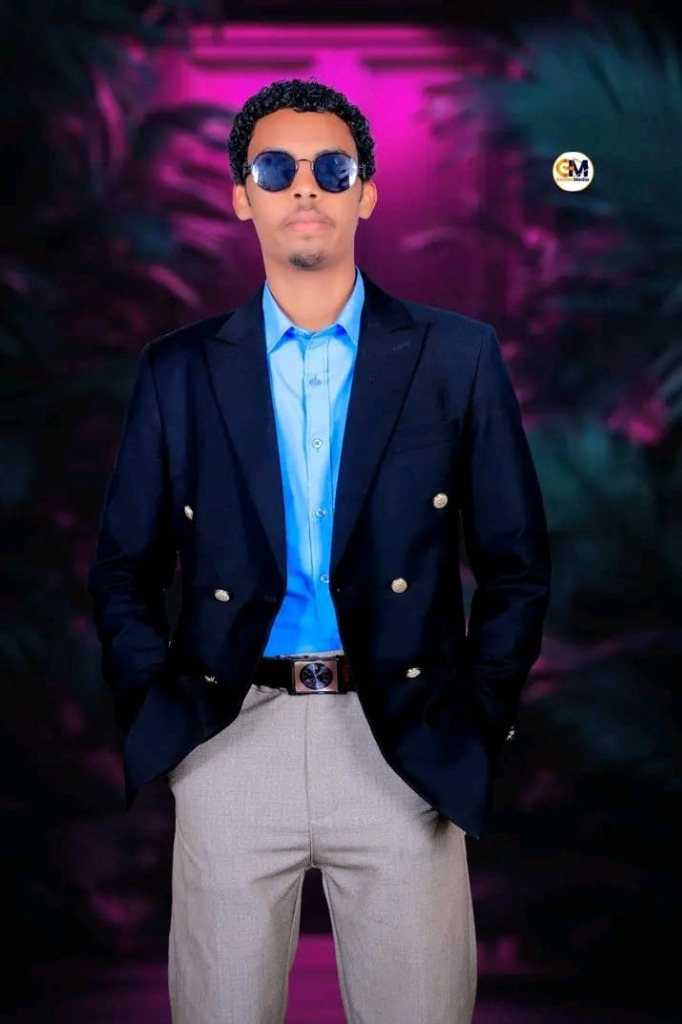
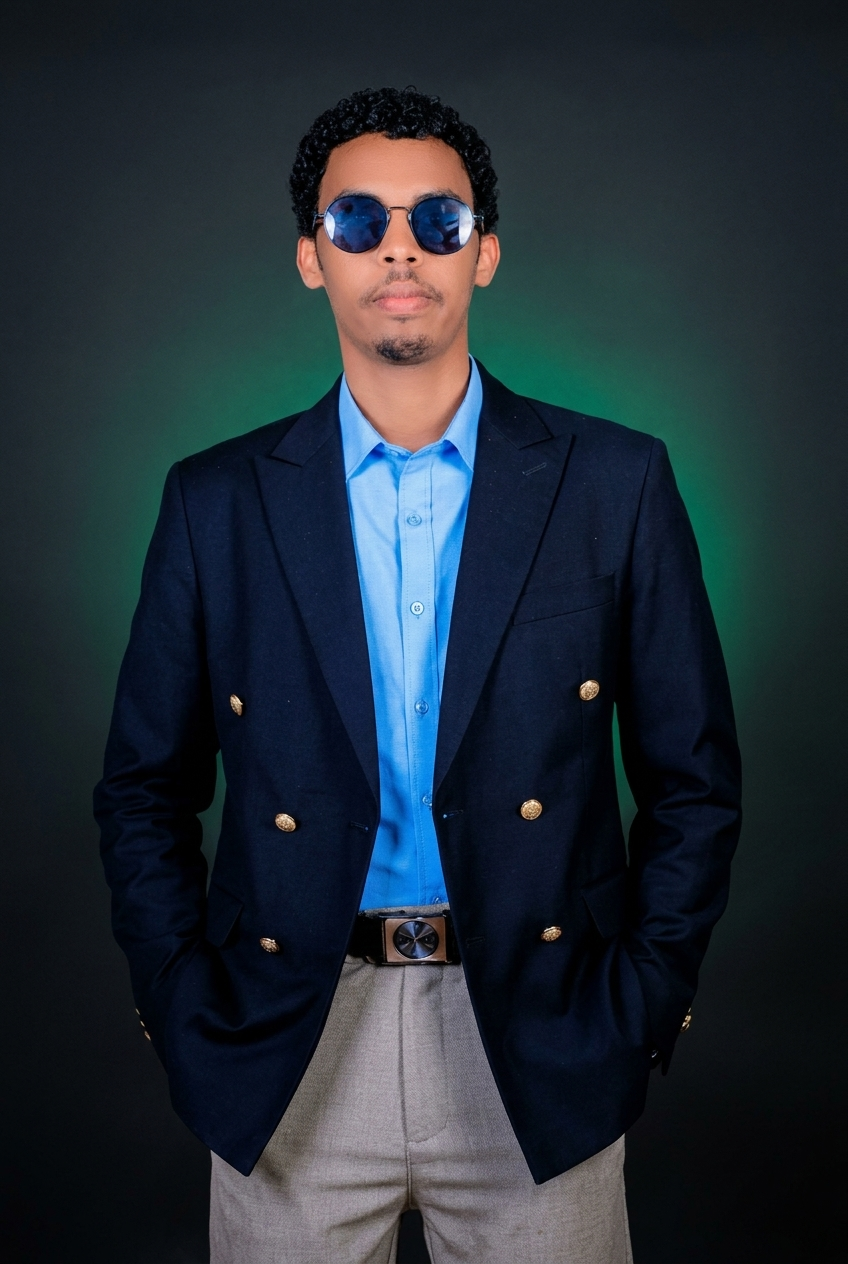
feat: remove subtle grid lines and apply studio dark backdrop to portrait

diff --git a/frontend/src/components/sections/Hero.jsx b/frontend/src/components/sections/Hero.jsx
@@ -42,8 +42,7 @@ export default function Hero() {
       aria-label="Hero"
       className="relative flex min-h-screen flex-col justify-between overflow-hidden bg-[#0e0e0e] pt-24 lg:pt-28"
     >
-      {/* Background ambient lighting */}
-      <div className="pointer-events-none absolute inset-0 grid-bg-dark opacity-50" />
+      {/* Background ambient lighting - pure dark with subtle glow */}
       <div className="pointer-events-none absolute -left-64 top-0 h-[500px] w-[500px] rounded-full bg-[#39A751]/8 blur-[120px]" />
       <div className="pointer-events-none absolute -right-48 top-20 h-[400px] w-[400px] rounded-full bg-[#52fe7d]/4 blur-[100px]" />
 
@@ -117,7 +116,7 @@ export default function Hero() {
           </div>
 
           {/* ── Right Column: Clean Portrait ── */}
-          <Reveal delay={120} className="order-1 mx-auto w-full max-w-[290px] sm:max-w-[330px] lg:order-2 lg:mx-0 lg:ml-auto">
+          <Reveal delay={120} className="order-1 mx-auto w-full max-w-[310px] sm:max-w-[350px] lg:order-2 lg:mx-0 lg:ml-auto">
             <div className="relative">
               {/* Outer glow ring */}
               <div className="absolute -inset-3 rounded-2xl bg-gradient-to-br from-[#39A751]/20 via-transparent to-[#52fe7d]/10 blur-xl" />
